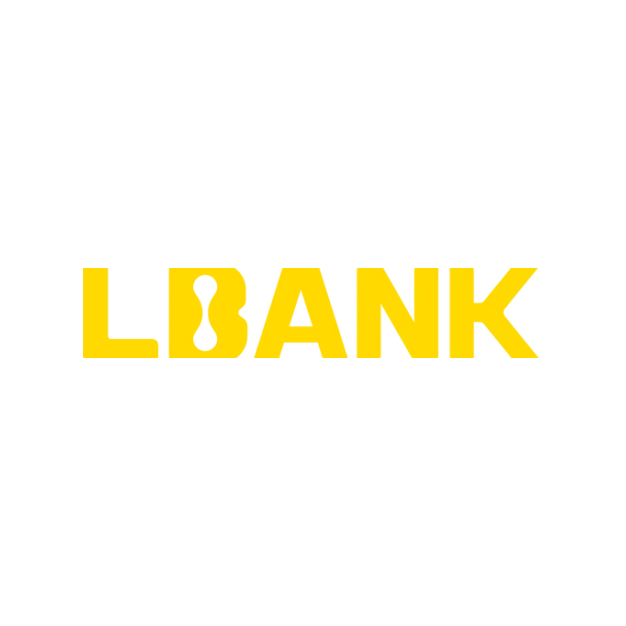
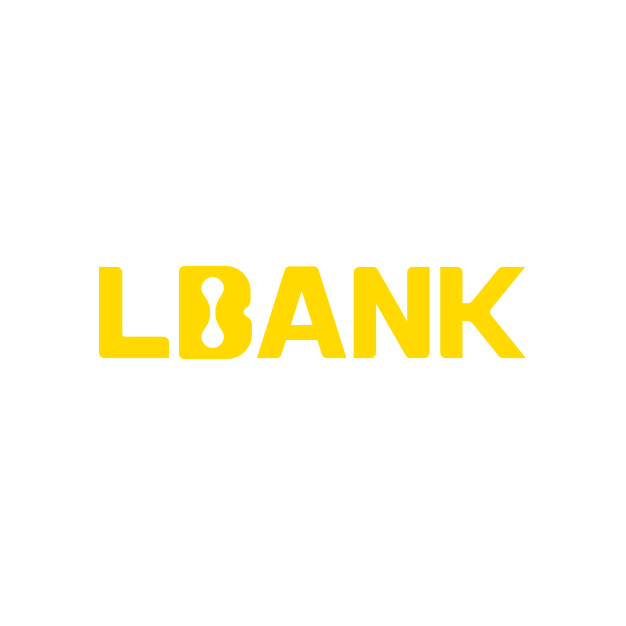
아이콘 및 배너 작업

Changed region(s): [[0.1214, 0.4249, 0.8498, 0.5767], [0.4856, 0.4249, 0.516, 0.4553]]

diff --git a/dummy.js b/dummy.js
@@ -9,45 +9,55 @@ export const dummyTrade = [
   {
     name: "Bybit",
     averageRefund: 720000,
-    image: require("./assets/bybit-banner.png"),
+    image: require("./assets/bybit.png"),
+    banner: require("./assets/bybit-banner.png"),
     tag: "인기거래소 🔥",
     payback: "30%",
+
     discount: "20%",
     closing: "93%",
   },
   {
     name: "Binance",
     averageRefund: 720000,
-    image: require("./assets/binance-banner.png"),
+    image: require("./assets/binance.png"),
+    banner: require("./assets/binance-banner.png"),
     tag: "신규 제휴 ⭐",
     payback: "70%",
+
     discount: "50%",
     closing: "15%",
   },
   {
     name: "Bitget",
     averageRefund: 720000,
-    image: require("./assets/bitget-banner.png"),
+    image: require("./assets/bitget.png"),
+    banner: require("./assets/bitget-banner.png"),
     tag: "인기거래소 🔥",
     payback: "54%",
+
     discount: "50%",
     closing: "87%",
   },
   {
     name: "OKX",
     averageRefund: 720000,
-    image: require("./assets/okx-banner.png"),
+    image: require("./assets/okx.png"),
+    banner: require("./assets/okx-banner.png"),
     tag: "준비금 증명 🧳",
     payback: "54%",
+
     discount: "20%",
     closing: "98%",
   },
   {
     name: "LBank",
     averageRefund: 720000,
-    image: require("./assets/lbank-banner.png"),
+    image: require("./assets/lbank.webp"),
+    banner: require("./assets/lbank-banner.png"),
     tag: "준비금 증명 🧳",
     payback: "44%",
+
     discount: "22%",
     closing: "37%",
   },
@@ -55,17 +65,21 @@ export const dummyTrade = [
     name: "Tapbit",
     averageRefund: 720000,
     image: require("./assets/tapbit.png"),
+    banner: require("./assets/tapbit-banner.png"),
     tag: "준비금 증명 🧳",
     payback: "66%",
+
     discount: "27%",
     closing: "56%",
   },
   {
     name: "BingX",
     averageRefund: 720000,
-    image: require("./assets/bingx-banner.webp"),
+    image: require("./assets/bingx.webp"),
+    banner: require("./assets/bingx-banner.png"),
     tag: "추천거래소 👏🏻",
     payback: "60%",
+
     discount: "20%",
     closing: "72%",
   },

diff --git a/app/exchange/[id]/page.tsx b/app/exchange/[id]/page.tsx
@@ -11,8 +11,8 @@ export default function Page({ params }) {
       <h2 className="text-3xl sm:text-5xl md:text-6xl lg:text-7xl font-black py-10">{dummyTrade.find((v) => v.name === params.id).name}</h2>
       <div className="md:flex gap-10">
         <div style={{ flex: 1 }} className="h-full flex flex-col">
-          <div className="flex h-full justify-center items-center py-5 bg-gray-200 dark:bg-gray-800 rounded-md relative min-h-40">
-            <Image src={dummyTrade.find((v) => v.name.toLowerCase() === params.id.toLowerCase())?.image} />
+          <div className="flex h-full justify-center items-center py-5 rounded-md relative min-h-20">
+            <Image src={dummyTrade.find((v) => v.name.toLowerCase() === params.id.toLowerCase())?.image} height={100} width={100} />
           </div>
           <Button
             // onClick={() => router.push(`/exchange/${data.name}`)}

diff --git a/app/(home)/trade-list.tsx b/app/(home)/trade-list.tsx
@@ -14,7 +14,7 @@ const TradeItem = ({ data }: { data: any }) => {
   return (
     <div className="flex-1  mx-2 flex flex-col rounded-md   font-bold border border-gray-200 dark:border-gray-600">
       <div className="min-w-60 h-32  bg-background  rounded-t-md flex justify-center items-center text-black relative overflow-hidden border-b border-gray-200 dark:border-gray-600">
-        <Image src={data.image} alt="exchange-image" />
+        <Image src={data.banner} alt="exchange-image" />
       </div>
       <div className="py-3 px-2">
         <p className="text-gray-800 dark:text-white">{data.name}</p>
